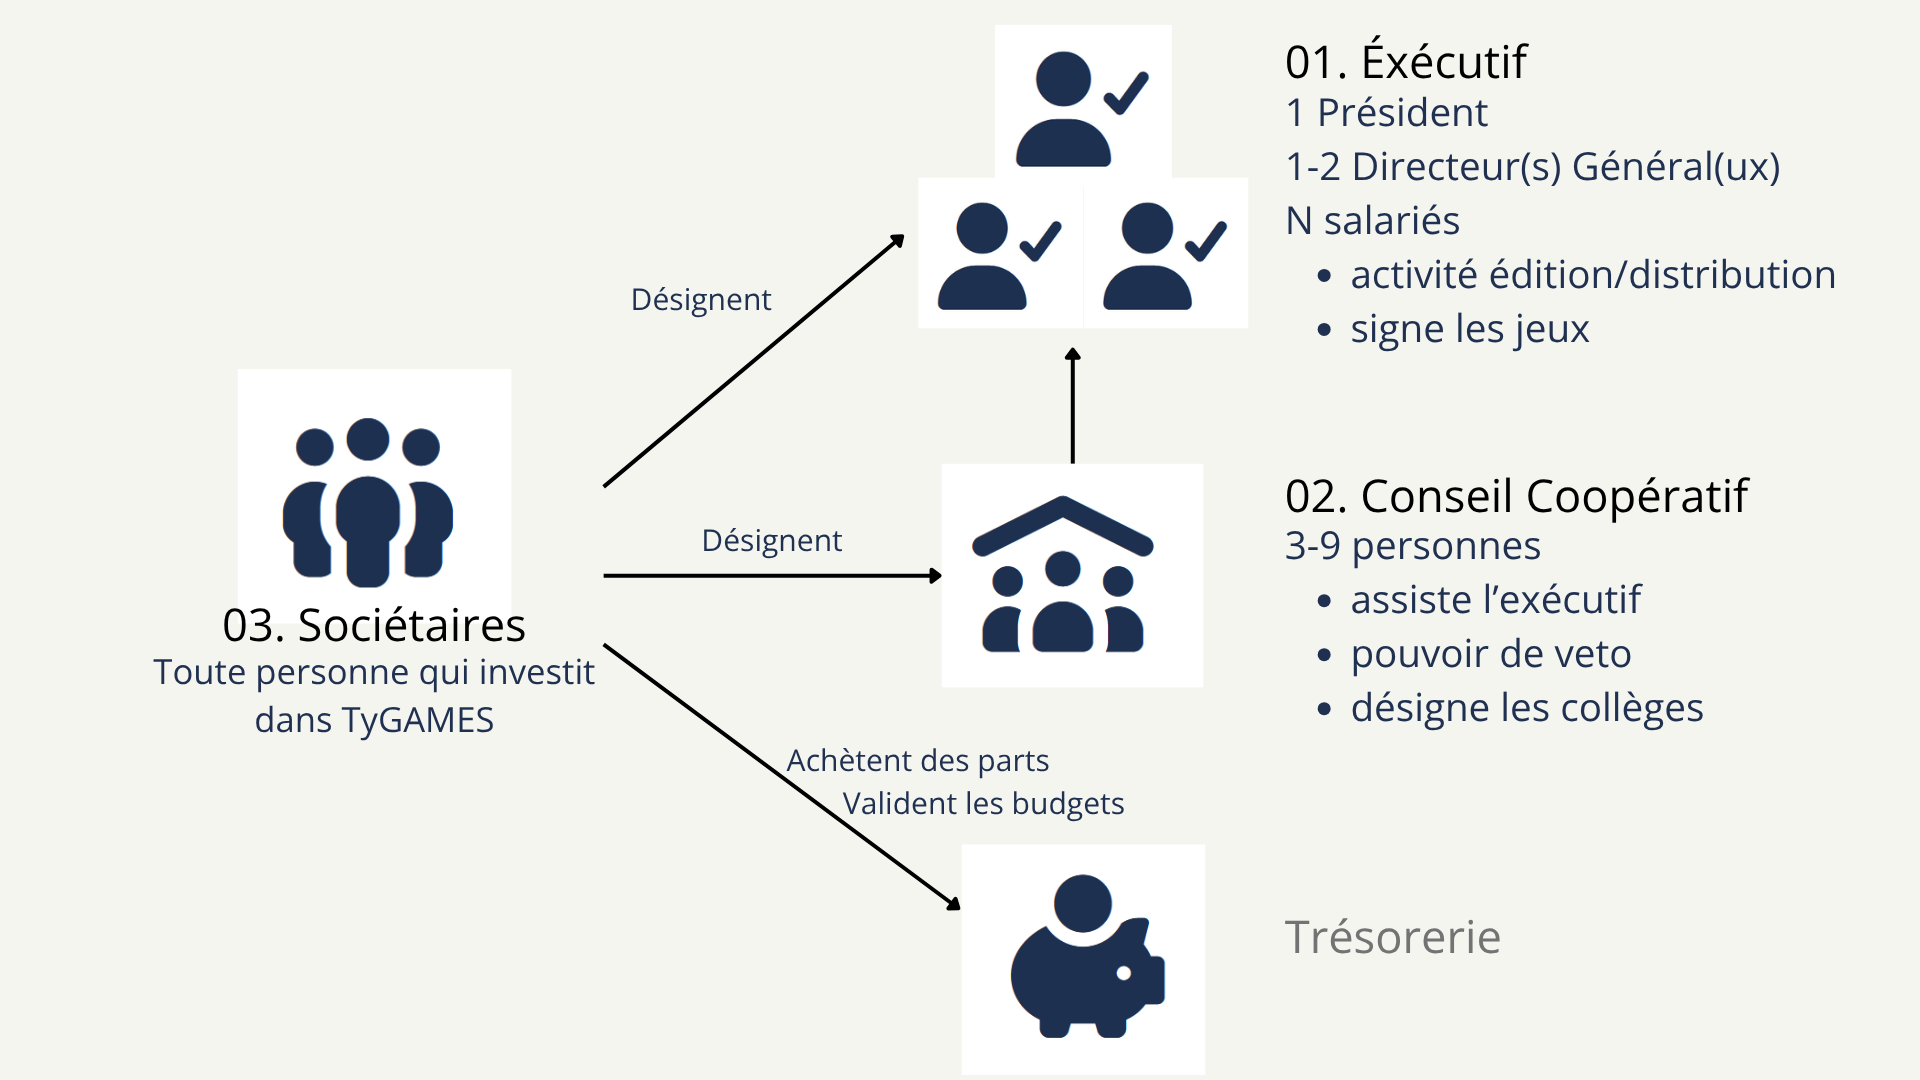
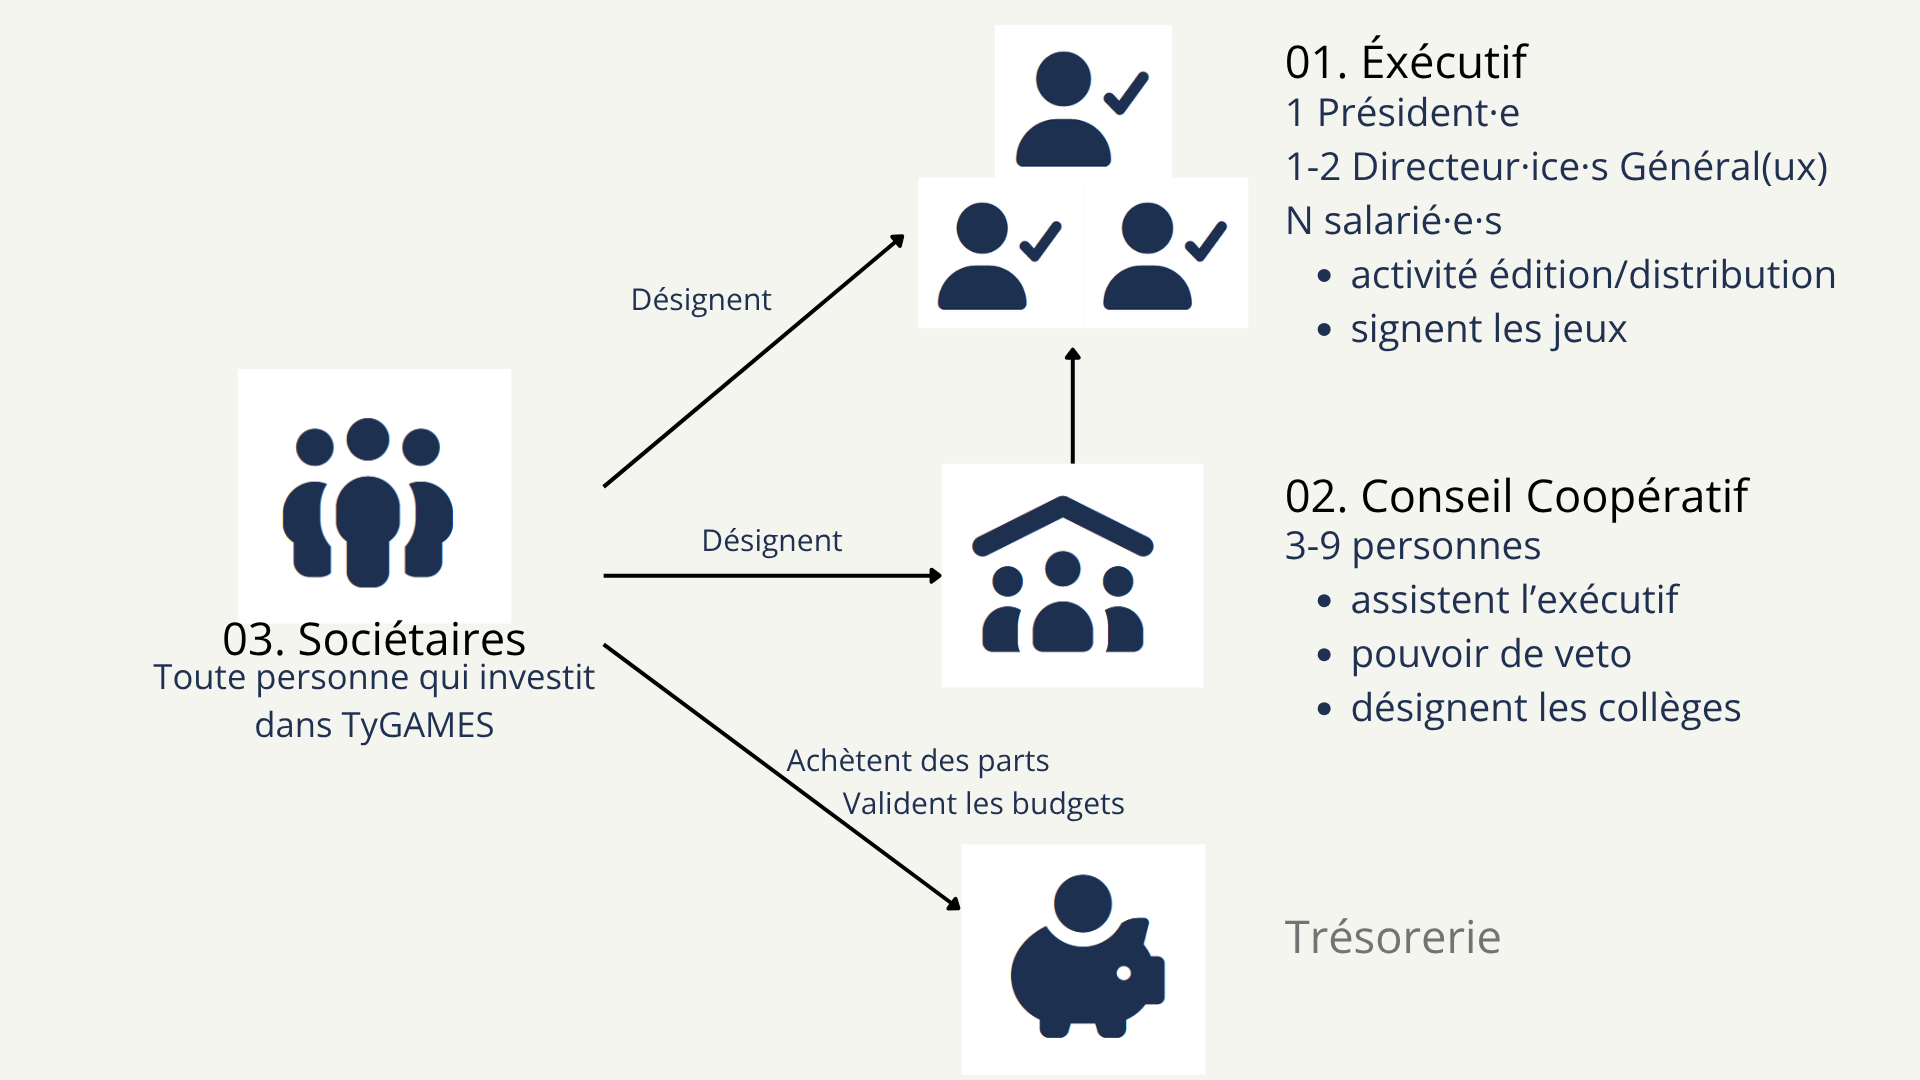
📝 fix typo et wordings.

diff --git a/_pages_fr/cooperative/fonctionnement.md b/_pages_fr/cooperative/fonctionnement.md
@@ -65,22 +65,22 @@ colleges:
     - name: Éxécutif
       votes: "30 %"
       min_shares: "10"
-      profile: "Associé.e.s, gestionnaires, salarié.e.s qui s'impliquent pour la société et garantissent la vision. <br /> Inclut la présidence et la direction générale."
+      profile: "Associé·e·s, gestionnaires, salarié·e·s qui s'impliquent pour la société et garantissent la vision. <br /> Inclut la présidence et la direction générale."
       condition: "Un engagement de travail mensuel (par ex. N jours fournis sur un domaine)."
     - name: "Studios, développeurs & auteurs"
       votes: "30 %"
       min_shares: "5"
-      profile: "Bénéficiaires des services de TyGAMES :<br />studios, auteurs, développeur.euse.s indé."
+      profile: "Bénéficiaires des services de TyGAMES :<br />studios, auteurs, développeur·euse·s indé·s."
       condition: "Avoir au moins un jeu distribué par la coopérative."
     - name: "Associations, partenaires & collectivités"
       votes: "10 %"
       min_shares: "5"
-      profile: "Clusters, syndicats, écoles, sociétés gravitant autour du jeu vidéo, investisseurs professionnels."
+      profile: "Clusters, syndicats, écoles, sociétés gravitant autour du jeu vidéo, investisseur·euse·s professionnel·le·s."
       condition: "Association, domaine éducatif/connexe au jeu vidéo, ou activité bénéfique à TyGAMES."
     - name: Communauté
       votes: "15 %"
       min_shares: "1"
-      profile: "Joueur.euses, créateur·ice·s de contenu, professionnel.le.s ou toute personne intéressée par les jeux vidéo."
+      profile: "Joueur·euse·s, créateur·ice·s de contenu, professionnel.le.s ou toute personne intéressé·e par les jeux vidéo."
       condition: "-"
     - name: "Mentors & volontaires"
       votes: "15 %"

diff --git a/_pages_en/publishing.md b/_pages_en/publishing.md
@@ -34,7 +34,7 @@ distribution:
         - "One-off deals (boxed, bundle, game pass…)"
     - heading: "Minimal revshare"
       bullets:
-        - "We take the minimum and it's the same for everyone"
+        - "Without invest, we take the minimum and it's the same for everyone"
         - "10% Steam / PC"
         - "20% mobile"
         - "30% consoles"
@@ -51,7 +51,7 @@ distribution:
 publishing:
   section_id: publishing
   heading: "Publisher"
-  intro_pre: "We modestly fund services, original creations, and ports. We cannot fund, for now, production. Read our offer, then"
+  intro_pre: "Publishing is a forward step, which include distribution and adding modestly fund services, original creations and ports. We cannot fund, for now, production. Read our offer, then"
   intro_link: "submit your project"
   intro_post: "."
   intro_secondary: "Applications are reviewed by the Cooperative Council and management, once per quarter."

diff --git a/_pages_fr/publishing.md b/_pages_fr/publishing.md
@@ -34,7 +34,7 @@ distribution:
         - "Deals ponctuels (boîte, bundle, game pass…)"
     - heading: "Revshare minimal"
       bullets:
-        - "Nous prenons le minimum et c'est le même pour tout le monde"
+        - "Sans investissement important, nous prenons le minimum et c'est le même pour tout le monde"
         - "10% Steam / PC"
         - "20% mobile"
         - "30% consoles"
@@ -51,7 +51,7 @@ distribution:
 publishing:
   section_id: edition
   heading: "Éditeur"
-  intro_pre: "Nous finançons modestement des services, des créations et des portages. Nous ne finançons pas, pour l'instant, la production. Prenez connaissance de notre offre, puis"
+  intro_pre: "L'édition est une offre incluant la distribution, ainsi que qu'un financement modeste. Principalement en services, créations et portages. Nous ne finançons pas, pour l'instant, la production. Prenez connaissance de notre offre, puis"
   intro_link: "soumettez votre projet"
   intro_post: "."
   intro_secondary: "Les candidatures sont étudiées par le Conseil Coopératif et la gérance, une fois par trimestre."